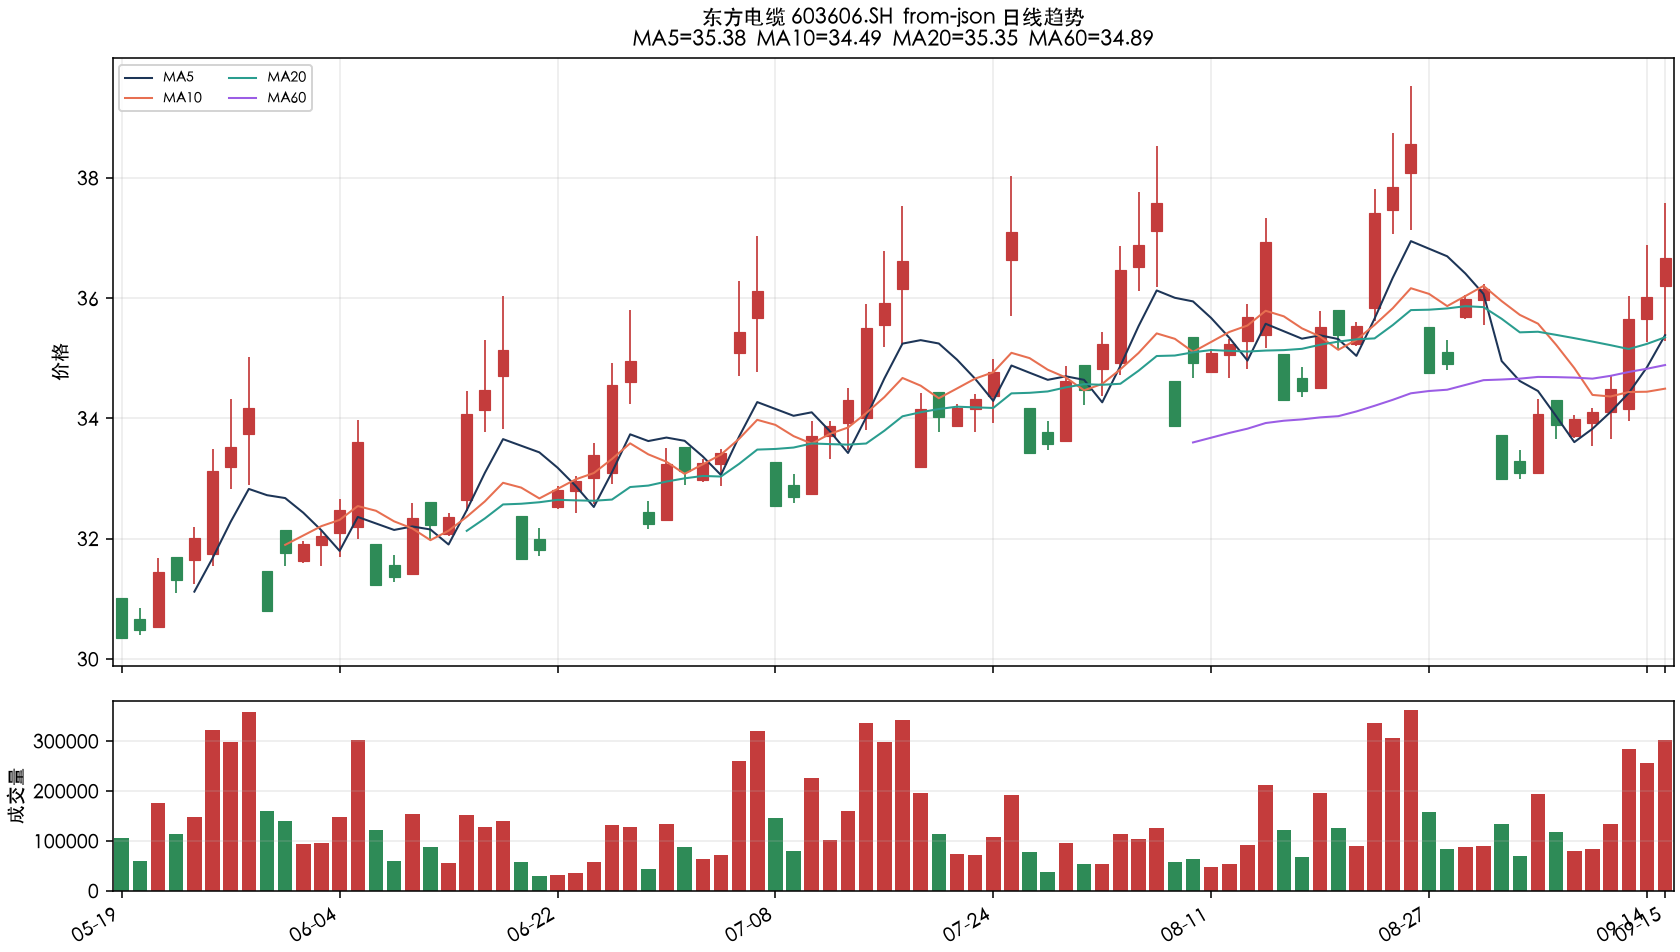
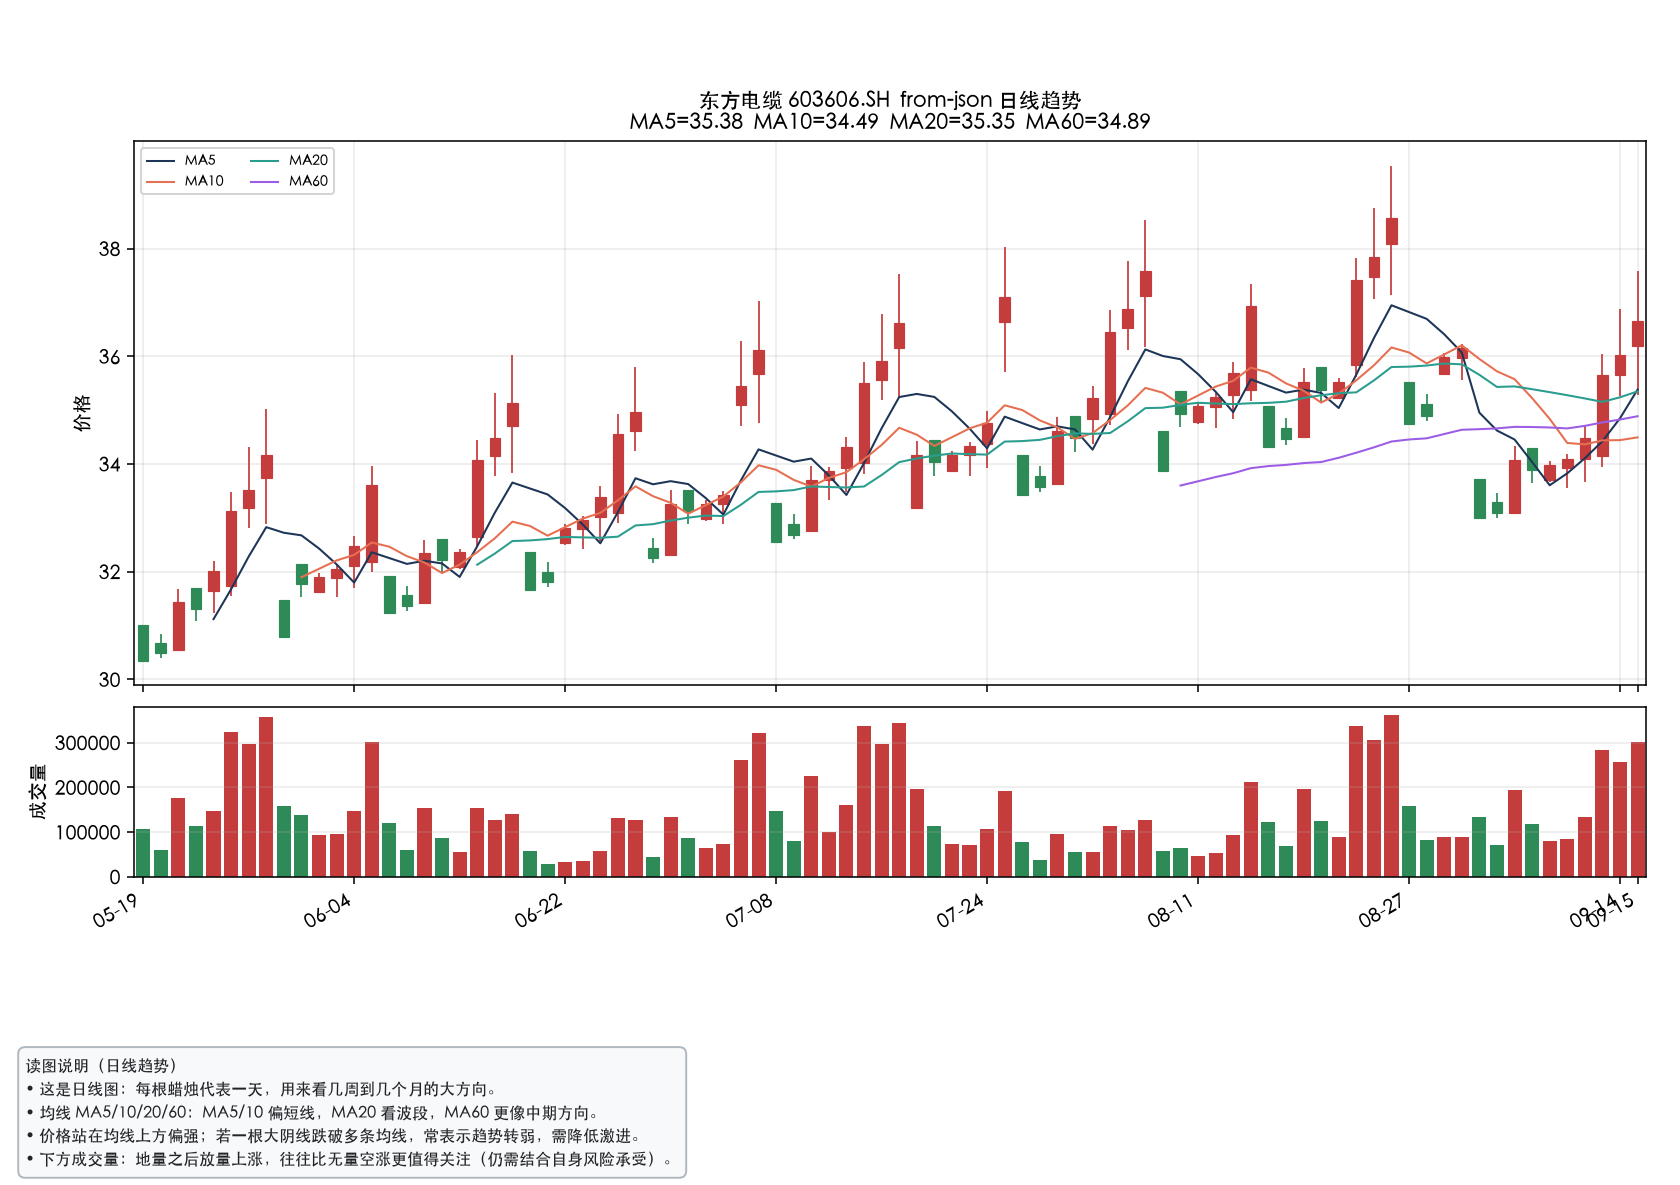
feat: add plain-language captions under every chart
Explain channels, candles, MAs, and intraday VWAP at the foot of each
PNG so non-traders can read the plots without prior jargon.

diff --git a/src/emquote/captions.py b/src/emquote/captions.py
@@ -1,0 +1,105 @@
+"""图表底部通俗读图说明（给非技术读者）。"""
+
+from __future__ import annotations
+
+from typing import Any
+
+
+def caption_for_channel(channel: str, *, has_levels: bool) -> list[str]:
+    kinds = {p.strip().lower() for p in channel.replace("+", ",").split(",") if p.strip()}
+    lines = [
+        "上半图是价格走势；下半图柱子是成交量——柱越高，这根 K 线交易越活跃。",
+        "彩色轨道是「价格通道」：价格多数时间在上下轨之间来回；靠近下轨偏观察买，靠近上轨偏观察卖。",
+    ]
+    if kinds & {"vwreg", "vw", "volreg", "vwlinreg"}:
+        lines.append(
+            "本图通道按成交量加权：放量那几根对轨道影响更大；黄点表示「价格靠近参考价且放量」。"
+        )
+    elif kinds & {"reg", "regression", "linreg"}:
+        lines.append("回归通道像给近期走势画的「走廊」，中轴是趋势中线，带宽反映波动大小。")
+    if kinds & {"donchian", "dc"}:
+        lines.append("Donchian 轨取近期最高/最低：适合观察突破（上破）或跌破（下破）。")
+    if has_levels:
+        lines.append(
+            "虚线水平价是可抄到东方财富「条件单」的参考触发价（研究用，工具不会自动下单）。"
+        )
+    lines.append("横轴只保留交易时段，已去掉午休/隔夜空洞，所以看起来是连续的。")
+    return lines
+
+
+def caption_for_kline(ma: list[int] | None = None) -> list[str]:
+    ma = ma or [5, 10, 20]
+    ma_txt = "/".join(str(x) for x in ma)
+    return [
+        "每根蜡烛：实体=开盘到收盘；上下影线=这段时间最高/最低价。涨跌颜色见图例/柱色。",
+        f"彩色曲线是均线 MA{ma_txt}：把最近 N 根收盘价平均，用来看趋势方向，不是买卖指令。",
+        "一般来说，价格在均线上方且短均线在上，走势偏强；跌到均线下方要更谨慎。",
+        "下图成交量帮助确认：上涨放量更有说服力，下跌放量要警惕。",
+    ]
+
+
+def caption_for_daily(ma: list[int] | None = None) -> list[str]:
+    ma = ma or [5, 10, 20, 60]
+    return [
+        "这是日线图：每根蜡烛代表一天，用来看几周到几个月的大方向。",
+        f"均线 MA{'/'.join(str(x) for x in ma)}：MA5/10 偏短线，MA20 看波段，MA60 更像中期方向。",
+        "价格站在均线上方偏强；若一根大阴线跌破多条均线，常表示趋势转弱，需降低激进。",
+        "下方成交量：地量之后放量上涨，往往比无量空涨更值得关注（仍需结合自身风险承受）。",
+    ]
+
+
+def caption_for_intraday() -> list[str]:
+    return [
+        "这是分时图：只看最近一个交易日，曲线是最新价随时间的变化。",
+        "灰色「昨收」线是今天涨跌的参照：价在其上为红盘思路，其下为绿盘思路。",
+        "虚线 VWAP 是当天成交量加权均价：价在 VWAP 上方通常偏强，下方偏弱。",
+        "下图是分时成交量，午盘前后放量常对应波动加大；本图仅供盘中观察，不是下单指令。",
+    ]
+
+
+def apply_caption(fig: Any, lines: list[str], *, title: str = "读图说明") -> None:
+    """在图底部画通俗说明；会略微加高画布并留出页脚空间。"""
+    if not lines:
+        return
+    # 关掉 constrained/tight，才能用 subplots_adjust 给页脚腾地方
+    try:
+        fig.set_layout_engine(None)
+    except Exception:
+        try:
+            fig.set_constrained_layout(False)
+        except Exception:
+            pass
+        try:
+            fig.set_tight_layout(False)
+        except Exception:
+            pass
+
+    n = len(lines)
+    w, h = fig.get_size_inches()
+    foot = 0.55 + 0.28 * n
+    fig.set_size_inches(w, h + foot)
+    fig.subplots_adjust(
+        left=0.08,
+        right=0.98,
+        top=0.88,
+        bottom=min(0.12 + 0.035 * n, 0.36),
+        hspace=0.10,
+    )
+    body = "\n".join(f"• {line}" for line in lines)
+    fig.text(
+        0.015,
+        0.012,
+        f"{title}\n{body}",
+        ha="left",
+        va="bottom",
+        fontsize=8.0,
+        linespacing=1.5,
+        color="#212529",
+        bbox={
+            "boxstyle": "round,pad=0.45",
+            "facecolor": "#f8f9fa",
+            "edgecolor": "#adb5bd",
+            "alpha": 0.97,
+        },
+        zorder=20,
+    )

diff --git a/src/emquote/charts.py b/src/emquote/charts.py
@@ -5,6 +5,13 @@ from __future__ import annotations
 from pathlib import Path
 from typing import Any
 
+from .captions import (
+    apply_caption,
+    caption_for_daily,
+    caption_for_intraday,
+    caption_for_kline,
+)
+
 
 def _setup_chinese_font() -> None:
     import matplotlib.pyplot as plt
@@ -118,6 +125,9 @@ def _finish_axes(
     bars: list[dict[str, Any]],
     title: str,
     out: Path,
+    *,
+    caption_lines: list[str] | None = None,
+    caption_title: str = "读图说明",
 ) -> Path:
     import matplotlib.pyplot as plt
 
@@ -147,6 +157,8 @@ def _finish_axes(
     ax_price.grid(True, alpha=0.25)
     ax_price.tick_params(labelbottom=False)
     ax_price.legend(loc="upper left", fontsize=7, framealpha=0.85, ncol=2)
+    if caption_lines:
+        apply_caption(fig, caption_lines, title=caption_title)
     out.parent.mkdir(parents=True, exist_ok=True)
     fig.savefig(out)
     plt.close(fig)
@@ -159,6 +171,8 @@ def plot_candles(
     *,
     ma: list[int] | None = None,
     title_suffix: str = "K线（蜡烛）",
+    caption_lines: list[str] | None = None,
+    caption_title: str = "读图说明（K线蜡烛）",
 ) -> Path:
     """蜡烛图 + 成交量 + 可选均线。"""
     try:
@@ -194,7 +208,20 @@ def plot_candles(
     ).strip()
     if ma_bits:
         title = f"{title}\n{'  '.join(ma_bits)}"
-    return _finish_axes(fig, ax_price, ax_vol, bars, title, out)
+    return _finish_axes(
+        fig,
+        ax_price,
+        ax_vol,
+        bars,
+        title,
+        out,
+        caption_lines=(
+            caption_lines
+            if caption_lines is not None
+            else caption_for_kline(ma_windows)
+        ),
+        caption_title=caption_title,
+    )
 
 
 def plot_daily(
@@ -205,7 +232,15 @@ def plot_daily(
 ) -> Path:
     """日线蜡烛 + MA5/10/20/60 + 成交量。"""
     windows = [5, 10, 20, 60] if ma is None else ma
-    return plot_candles(kline, output, ma=windows, title_suffix="日线趋势")
+    return plot_candles(
+        kline,
+        output,
+        ma=windows,
+        title_suffix="日线趋势",
+        caption_lines=caption_for_daily(windows),
+        caption_title="读图说明（日线趋势）",
+    )
+
 
 
 def _last_session_bars(bars: list[dict[str, Any]]) -> list[dict[str, Any]]:
@@ -314,4 +349,8 @@ def plot_intraday(
         f"{kline.get('name') or ''} {kline.get('symbol') or ''}  分时 {day}  "
         f"现价 {last:.2f}  昨收 {float(pre_close):.2f}  涨跌 {chg:+.2f}%"
     ).strip()
-    return _finish_axes(fig, ax_price, ax_vol, bars, title, out)
+    return _finish_axes(
+        fig, ax_price, ax_vol, bars, title, out,
+        caption_lines=caption_for_intraday(),
+        caption_title="读图说明（分时）",
+    )

diff --git a/src/emquote/plotting.py b/src/emquote/plotting.py
@@ -8,6 +8,7 @@ from __future__ import annotations
 from pathlib import Path
 from typing import Any
 
+from .captions import apply_caption, caption_for_channel
 from .levels import compute_channel, parse_channels, suggest_condition_orders
 
 
@@ -292,6 +293,11 @@ def plot_close_curve(
         ha="right",
     )
 
+    apply_caption(
+        fig,
+        caption_for_channel(channel, has_levels=bool(primary_suggestion)),
+        title="读图说明（价格/价量通道）",
+    )
     fig.savefig(out)
     plt.close(fig)
     return out

diff --git a/README.md b/README.md
@@ -23,7 +23,8 @@ emquote --help
 
 ## 给 AI / 脚本调用的画图 CLI
 
-安装 `.[plot]` 后提供五个**独立命令**（参数少、预设固定，适合 agent 直接调用）：
+安装 `.[plot]` 后提供五个**独立命令**（参数少、预设固定，适合 agent 直接调用）。
+每张图底部都会带一段「读图说明」，用白话解释通道/均线/分时等含义，方便非技术读者：
 
 | 命令 | 画什么 | 默认 |
 |---|---|---|
